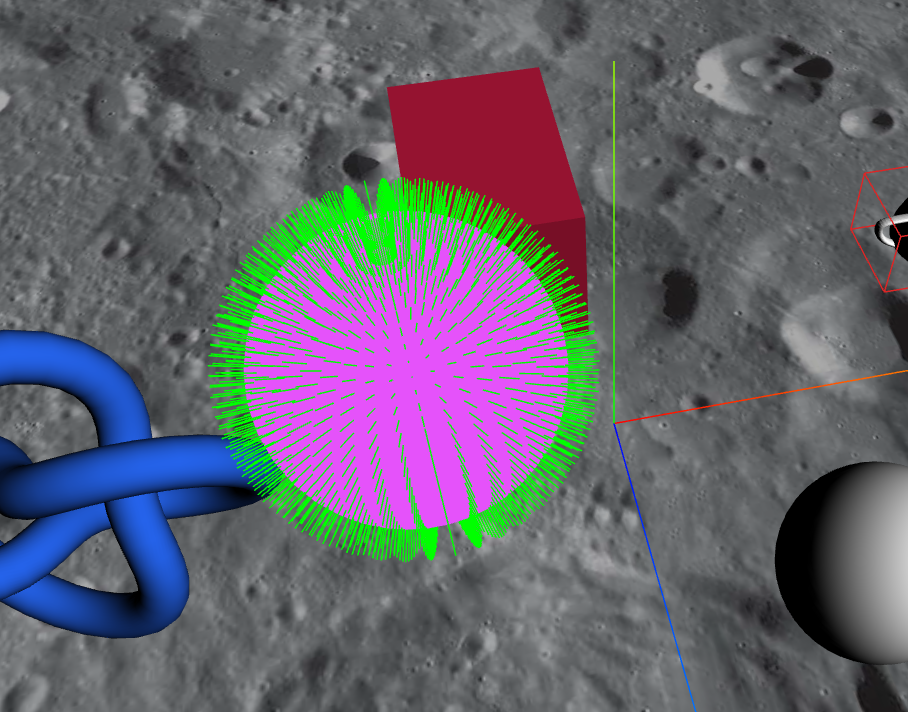
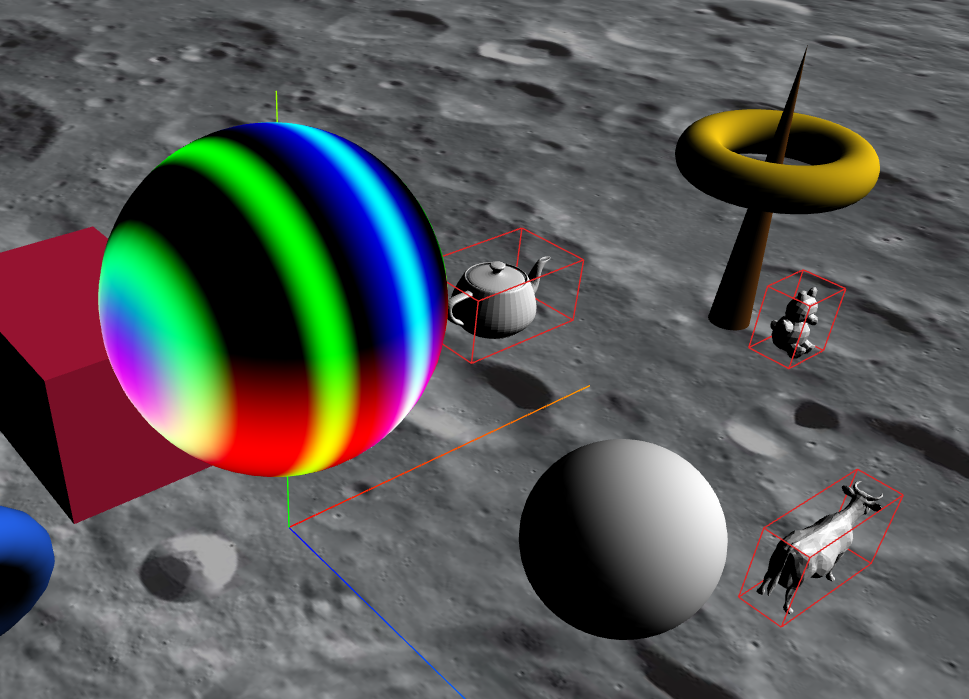
Ajout de paramètre varying

diff --git a/TP3/scene.js b/TP3/scene.js
@@ -170,19 +170,36 @@ createOBJModel('teapot.obj', 5,0, -2,0, 0, 0
 
 // Vertex shader
 var myVertexShader = `
+        // interpolateurs(varying) qui seront passés au Fragment Shader
+        varying float xPosition;
+        varying float yPosition;
+        varying float zPosition;
+
         void main() 
         {
-        vec4 worldPos = modelMatrix * vec4(position, 1.0);  
-        gl_Position = projectionMatrix * viewMatrix * worldPos;
+                vec4 worldPos = modelMatrix * vec4(position, 1.0);  
+                gl_Position = projectionMatrix * viewMatrix * worldPos;
+                
+                xPosition = abs(worldPos.x);
+                yPosition = abs(worldPos.y);
+                zPosition = abs(worldPos.z);
         }`
 
 
 // Pixel shader
 var myFragmentShader = `
+        // interpolateurs(varying) passé par le Vertex Shader
+        varying float xPosition;
+        varying float yPosition;
+        varying float zPosition;
+
         uniform vec3 rgb;  
         void main() 
         { 
-        gl_FragColor = vec4(rgb, 1.0);
+                float r = cos( 2.23*rgb.r / 0.82 * yPosition + 0.3 * zPosition );
+                float g = sin( 2.23*rgb.g / 0.2 * xPosition + 0.4 * zPosition );
+                float b = cos( 2.23*rgb.b / 0.47 * xPosition + 0.29 * yPosition );
+                gl_FragColor = vec4(r, g, b, 1.0);
         }`
 
 // conteneur Vector3 du registre uniform
@@ -198,8 +215,8 @@ const shaderSphere = new THREE.Mesh(
 shaderSphere.position.set(-2, 5, 3)
 scene.add(shaderSphere);
 
-const helper = new VertexNormalsHelper( shaderSphere, 0.2, 0x00ff00, 1 );
-scene.add(helper)
+// const helper = new VertexNormalsHelper( shaderSphere, 0.2, 0x00ff00, 1 );
+// scene.add(helper)
 
 
 /* LUMIERES */

diff --git a/RAPPORT2.md b/RAPPORT2.md
@@ -41,5 +41,6 @@ function animate() {
 ```
 
 J'ai ensuite importé la classe `VertexNormalsHelper` afin de visualiser les normales à ma forme. Ces dernières sont correctement orientées, on peut donc passer à la suite.
+En ajoutant un paramètre `varying` interpolé par le VertexShader et passé au FragmentShader, j'ai pu implémenté une variation de couleur selon la position x, y, et z du pixel. Combiné à la valeur des composants `rgb` qui varient avec le temps selon des fonctions trigonométriques, cela donne des "lignes" dont l'épaisseur et l'espacement varie.
 
 <img src="images/rapport2/2.png" alt="illustration" width="400"/>
